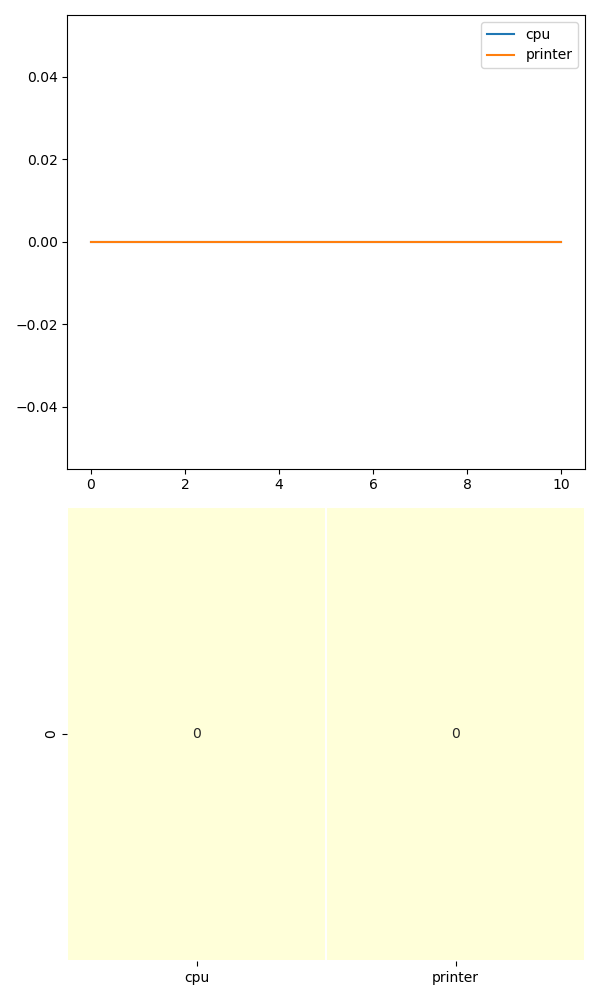
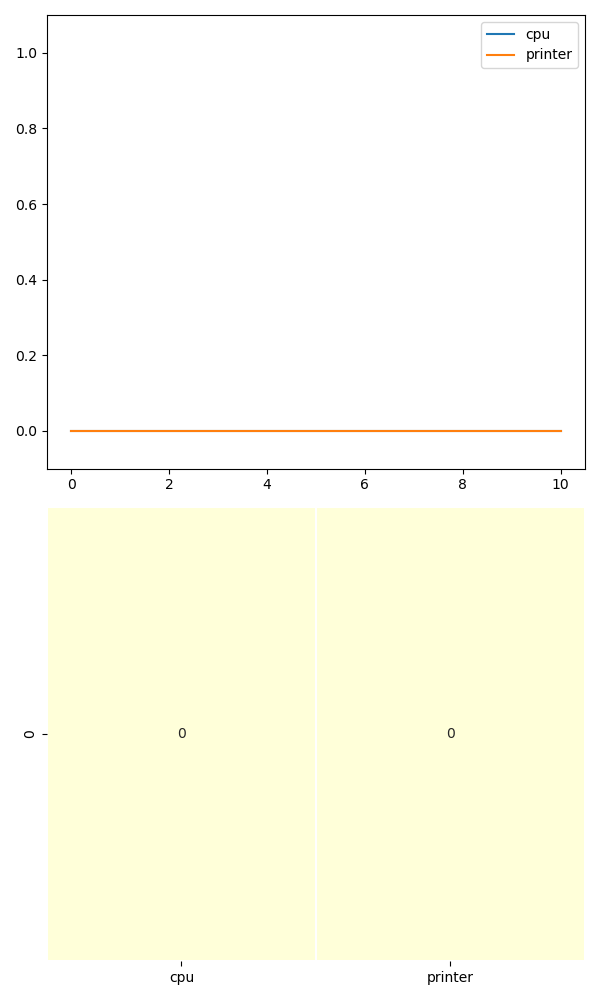
add command "mon"

diff --git a/process_manager.py b/process_manager.py
@@ -173,11 +173,12 @@ class ProcessManager:
 
     def append_resources_history(self, type, pid):
         unix_time = time.time()
+        last_unix_time = unix_time - self.history_length
         if len(self.resources_history[type]) != 0:
             last_unix_time = self.resources_history[type][-1][0]
-            if unix_time - last_unix_time > 2.0:  # idle time
-                self.resources_history[type].append([last_unix_time + 0.001, -1])
-                self.resources_history[type].append([unix_time - 0.001, -1])
+        if unix_time - last_unix_time > 2.0:  # idle time
+            self.resources_history[type].append([last_unix_time + 0.001, -1])
+            self.resources_history[type].append([unix_time - 0.001, -1])
         self.resources_history[type].append([unix_time, pid])
         while len(self.resources_history[type]) > 0 and unix_time - self.resources_history[type][0][0] > self.history_length:
             self.resources_history[type] = self.resources_history[type][1:]
@@ -225,22 +226,33 @@ class ProcessManager:
         plt.clf()
         n = len(self.resources_history.keys())
         f, ax = plt.subplots(figsize=(6, 10), nrows=2)
+        ax[0].set_ylim(-0.1, 1.1)
         end_time = time.time()
         start_time = end_time - self.history_length
         for i in self.devices:
             x, y = [], []
+            
+            # remove too old records
+            while len(self.resources_history[i]) > 0 and self.resources_history[i][0][0] < start_time:
+                self.resources_history[i] =  self.resources_history[i][1:]
+
             for the_time, pid in self.resources_history[i]:
                 x.append(the_time - start_time)
                 y.append(0 if pid == -1 else 1)
             if len(x) == 0:
                 x, y = [0, self.history_length], [0, 0]
+            if x[-1] < self.history_length - 1.0:  # idle time at the end
+                x.append(x[-1] + 0.001)
+                y.append(0)
+                x.append(self.history_length)
+                y.append(0)
             ax[0].plot(x, y)
         ax[0].legend(self.devices)
         
         sns.heatmap(data=[
             [len(self.resources_history[v]) for v in self.resources_history.keys()]
         ], cbar=None, ax=ax[1], xticklabels=['cpu', 'printer'], annot=True, 
-                linewidths=0.5, robust=True, cmap='YlGnBu')
+                linewidths=0.5, robust=True, cmap='YlGnBu', vmin = 0, vmax = 10)
         plt.tight_layout()            
 
         plt.savefig('resource_monitor.png')
